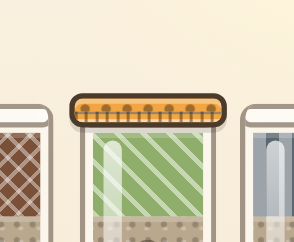
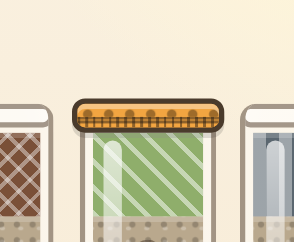
fix: sieve band wraps the neck, and its evidence (sprint 13 M2)
The first evidence run showed the band floating above the glass like a
lid (with a gap on the guide's mini jar), and the pattern-mode mesh read
as a ruler. The band now sits on the rim where the glass starts (--neck;
14 px in the Jar guide) with an overhang in proportion to the jar, and
the pattern-mode strip is a woven grid. Evidence re-run: intro card,
board, refused and accepted pours, Jar guide, Moonlit tide, patterns,
jar styles, 320 x 568 at 150% text, the sieve sealed, and a win on 141.

Story: sprint-13 M2. Design: design/gdd/jar-mechanics.md 2.5

Claude-Session: https://claude.ai/code/session_0159TZnrk52QMtuhsaHD9b53

Changed region(s): [[0.2143, 0.376, 0.7959, 0.5785]]

diff --git a/src/ui/style.css b/src/ui/style.css
@@ -1596,10 +1596,11 @@ button {
   display: block;
   position: absolute;
   z-index: 2;
-  left: -4px;
-  right: -4px;
-  top: calc(var(--jar-w) * 0.18 - 4px);
-  height: max(11px, calc(var(--jar-w) * 0.26));
+  /* --neck is where the glass starts: below the cork room on the board, 14 px in the Jar guide. */
+  left: min(-2px, calc(var(--jar-w) * -0.06));
+  right: min(-2px, calc(var(--jar-w) * -0.06));
+  top: calc(var(--neck, calc(var(--jar-w) * 0.18)) - 2px);
+  height: max(11px, calc(var(--jar-w) * 0.25));
   border: 2px solid var(--ink);
   border-radius: 5px;
   background-color: var(--band);
@@ -1618,12 +1619,18 @@ button {
     repeating-linear-gradient(90deg, rgba(40, 30, 20, 0.45) 0 1px, transparent 1px 4px),
     repeating-linear-gradient(0deg, rgba(255, 255, 255, 0.55) 0 1px, transparent 1px 4px);
 }
-/* Patterns on: the mesh keeps to a strip at the band's foot, so the pattern reads above it. */
+/* Patterns on: the mesh keeps to a woven strip at the band's foot, so the pattern reads above it. */
 .sieve-band[class*='pat-'] .sieve-mesh {
   top: auto;
   height: 4px;
-  border-top: 1px solid rgba(40, 30, 20, 0.45);
+  border-top: 1px solid rgba(40, 30, 20, 0.5);
   background-color: var(--band);
+  background-image:
+    repeating-linear-gradient(90deg, rgba(40, 30, 20, 0.5) 0 1px, transparent 1px 3px),
+    linear-gradient(0deg, transparent 1.5px, rgba(40, 30, 20, 0.5) 1.5px 2.5px, transparent 2.5px);
+}
+.mini-jar {
+  --neck: 14px;
 }
 
 /* Intro card and jar guide */

diff --git a/production/qa/evidence/sprint-13/sieve/README.md b/production/qa/evidence/sprint-13/sieve/README.md
@@ -1,0 +1,27 @@
+# Sprint 13 M2: sieve jar evidence
+
+Design: `design/gdd/jar-mechanics.md` §2.5 (D96, D97). Captured against the real build
+(`npm run build`, `npx vite preview --port 5534 --strictPort`) with `node check.cjs http://localhost:5534/ .`
+(Playwright, Chromium). Pixel 7 unless noted. Save seeded once per context at level 141. Measured values are in
+`result.json`. No page errors in any run.
+
+| Image | What it shows |
+|---|---|
+| `01-intro-card-141.png` | The "New jar!" card on level 141's board: "Sieve jar", its rule, and a mini jar wearing a terracotta band. |
+| `02-board-sieve.png` | Level 141: jar 4 is the sieve, with a saffron collar and a woven mesh round its neck (screen reader: "sieve, saffron only"). |
+| `03-refused-wrong-colour.png` | A slate pour into the sieve is refused: red outline and the toast "Only saffron sand can go in this sieve." |
+| `04-correct-pour-in.png` | Saffron poured into the sieve after a few hinted pours ("Poured 1 saffron into jar 4."). |
+| `05-jar-guide.png` | Settings, Jar guide: the Sieve jar is the last entry, after the hourglass. |
+| `06-moonlit.png` | Moonlit tide (a dark scene): the band edge takes the scene ink and stays clear. |
+| `07-patterns-on.png` | Colour patterns on: the band carries saffron's pattern (dots, `pat-1`). |
+| `08-patterns-on-closeup.png` | Close-up of 07: the pattern on the band, and the mesh kept to a woven strip at its foot. |
+| `09-styles-amber-brass-glint.png` | Jar styles worn (amber glass, brass cork, glint sand): the band keeps its colour and place. |
+| `10-320-150-intro.png` | 320 x 568 at 150% text: the intro card. |
+| `11-320-150-board.png` | 320 x 568 at 150% text: the board. The band clears the neighbouring jars and the page does not scroll sideways. |
+| `12-sieve-sealed.png` | During the hinted play-through: the sieve sealed in saffron, its cork sitting over the band. |
+| `13-win-141.png` | Level 141 won with hints (54 pours). |
+
+Also checked in `result.json`: the card marks the sieve seen; the band overlaps no other mark and no other jar in
+every scene and size; a tap on the empty sieve, with nothing lifted, shows the same message (`emptyTap`).
+
+Notes: a saffron band on amber glass is close in hue; the ink edge and the mesh still set it apart. Nothing else looked off.
